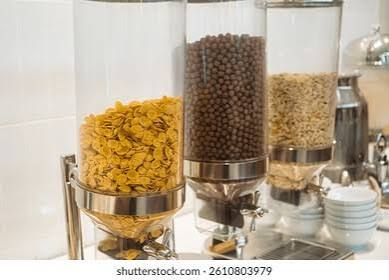
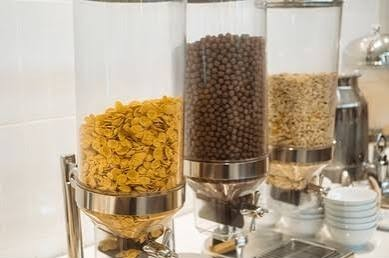
Dining changes

diff --git a/app/dining/page.tsx b/app/dining/page.tsx
@@ -6,7 +6,6 @@ import Sidebar from "@/components/Sidebar";
 import Footer from "@/components/Footer";
 import PageHero from "@/components/PageHero";
 
-// Automatically load every image in /public/food
 const foodDir = path.join(process.cwd(), "public", "food");
 
 const foodImages = fs
@@ -15,8 +14,25 @@ const foodImages = fs
   .sort()
   .map((file) => `/food/${file}`);
 
-// Use the first image as the hero image
 const heroImage = foodImages[0];
+const galleryImages = foodImages.slice(1);
+
+const badges = [
+  { icon: "🍳", label: "Complimentary Breakfast" },
+  { icon: "🥐", label: "Continental Selection" },
+  { icon: "🍽", label: "Multi-Cuisine Restaurant" },
+  { icon: "🌿", label: "Nature-View Dining" },
+];
+
+const menuItems = [
+  "Freshly prepared meals throughout the day",
+  "South Indian specialties",
+  "North Indian favourites",
+  "Chinese cuisine",
+  "Vegetarian and non-vegetarian options",
+  "Family-friendly dining atmosphere",
+  "Scenic views overlooking nature",
+];
 
 export const metadata = {
   title: "Dining | La Damai Resort",
@@ -33,80 +49,102 @@ export default function DiningPage() {
         image={heroImage}
       />
 
-      <section className="bg-porcelain py-20 md:py-24">
-        <div className="max-w-7xl mx-auto px-6 md:px-10">
+      {/* Main content */}
+      <section className="bg-[#F7F4EE] py-24">
+        <div className="max-w-5xl mx-auto px-8">
 
-          <div className="max-w-4xl mb-16">
-            <p className="text-palm text-xs tracking-[0.4em] uppercase mb-4">
-              Restaurant
-            </p>
+          {/* Eyebrow + title */}
+          <span className="text-xs tracking-[0.3em] uppercase text-[#8B6F47] block mb-5">
+            Restaurant
+          </span>
+          <h2 className="font-display text-5xl md:text-6xl text-[#1A1612] leading-[1.05] mb-4">
+            Dining at La Damai
+          </h2>
+          <p className="text-[#8B6F47] text-lg font-light tracking-wide mb-8">
+            A Multi-Cuisine Culinary Experience
+          </p>
+          <div className="w-10 h-px bg-[#8B6F47] mb-10" />
 
-            <h2 className="font-display text-3xl md:text-5xl text-coffee mb-8">
-              Dining at La Damai
-            </h2>
-
-            {/* Highlight Badges */}
-            <div className="flex flex-wrap gap-3 mb-10">
-              {[
-                "🍳 Complimentary Breakfast",
-                "🥐 Continental Selection",
-                "🍽 Multi-Cuisine Restaurant",
-                "🌿 Nature-View Dining",
-              ].map((badge) => (
-                <span
-                  key={badge}
-                  className="px-5 py-2 border border-palm/20 bg-palm/5 text-palm rounded-full text-sm"
-                >
-                  {badge}
-                </span>
-              ))}
-            </div>
-
-            <p className="text-coffee/70 leading-relaxed mb-8 text-lg">
-              Every meal at <strong>La Damai</strong> is designed to be a
-              memorable part of your stay. Begin your mornings with a generous
-              breakfast spread featuring South Indian classics alongside
-              continental selections. Throughout the day, enjoy a variety of
-              North Indian, South Indian, and Chinese dishes, freshly prepared
-              and served in a relaxed setting surrounded by nature. Our
-              restaurant offers a thoughtfully curated menu designed to satisfy
-              every palate.
-            </p>
-
-            <ul className="grid md:grid-cols-2 gap-y-4 gap-x-12 text-coffee/80">
-              <li>• Freshly prepared meals throughout the day</li>
-              <li>• South Indian specialties</li>
-              <li>• North Indian favourites</li>
-              <li>• Chinese cuisine</li>
-              <li>• Vegetarian and non-vegetarian options</li>
-              <li>• Family-friendly dining atmosphere</li>
-              <li>• Scenic views overlooking nature</li>
-            </ul>
-          </div>
-
-          {/* Food Gallery */}
-          <div className="columns-1 sm:columns-2 lg:columns-3 gap-5 space-y-5">
-            {foodImages.map((img, index) => (
-              <div
-                key={img}
-                className="relative overflow-hidden break-inside-avoid rounded-lg group"
-                style={{
-                  aspectRatio: index % 3 === 0 ? "4/5" : "4/3",
-                }}
+          {/* Badges */}
+          <div className="flex flex-wrap gap-3 mb-12">
+            {badges.map(({ icon, label }) => (
+              <span
+                key={label}
+                className="inline-flex items-center gap-2 px-5 py-2.5 border border-[#8B6F47]/25 bg-white text-[#3D3530] text-sm rounded-full"
               >
-                <Image
-                  src={img}
-                  alt={`Food ${index + 1}`}
-                  fill
-                  className="object-cover transition-transform duration-700 group-hover:scale-105"
-                />
-
-                <div className="absolute inset-0 bg-coffee/0 group-hover:bg-coffee/15 transition-colors duration-500" />
-              </div>
+                <span>{icon}</span>
+                {label}
+              </span>
             ))}
           </div>
 
+          {/* Description + menu — two columns */}
+          <div className="grid md:grid-cols-[3fr_2fr] gap-14 items-start">
+
+            {/* Left: full description */}
+            <div>
+              <p className="text-[#3D3530] text-base leading-[1.85] mb-0">
+                Every meal at <strong className="font-semibold text-[#1A1612]">La Damai</strong> is
+                designed to be a memorable part of your stay. Begin your mornings
+                with a generous breakfast spread featuring South Indian classics
+                alongside continental selections. Throughout the day, enjoy a
+                variety of North Indian, South Indian, and Chinese dishes, freshly
+                prepared and served in a relaxed setting surrounded by nature. Our
+                restaurant offers a thoughtfully curated menu designed to satisfy
+                every palate.
+              </p>
+            </div>
+
+            {/* Right: menu list */}
+            <div className="bg-white border border-[#DDD8CE] px-8 py-8">
+              <span className="text-xs tracking-[0.25em] uppercase text-[#8B6F47] block mb-6">
+                On the Menu
+              </span>
+              <ul className="space-y-4">
+                {menuItems.map((item) => (
+                  <li
+                    key={item}
+                    className="flex items-start gap-3 text-sm text-[#3D3530] leading-relaxed"
+                  >
+                    <span className="mt-[7px] w-1 h-1 rounded-full bg-[#8B6F47] shrink-0" />
+                    {item}
+                  </li>
+                ))}
+              </ul>
+            </div>
+
+          </div>
         </div>
+      </section>
+
+      {/* Gallery */}
+      <section className="bg-[#1A1612] py-3 px-3">
+        <div className="columns-1 sm:columns-2 lg:columns-3 gap-3 space-y-3">
+          {galleryImages.map((img, i) => (
+            <div
+              key={img}
+              className="relative overflow-hidden break-inside-avoid group"
+              style={{
+                aspectRatio: i % 5 === 0 ? "3/4" : i % 3 === 0 ? "4/3" : "1/1",
+              }}
+            >
+              <Image
+                src={img}
+                alt={`Dining at La Damai — ${i + 1}`}
+                fill
+                className="object-cover transition-transform duration-700 group-hover:scale-105"
+              />
+              <div className="absolute inset-0 bg-black/0 group-hover:bg-black/20 transition-colors duration-500" />
+            </div>
+          ))}
+        </div>
+      </section>
+
+      {/* Closing */}
+      <section className="bg-[#F7F4EE] py-16 text-center">
+        <span className="text-xs tracking-[0.3em] uppercase text-[#8B6F47]">
+          Complimentary breakfast included with every room
+        </span>
       </section>
 
       <Footer />
